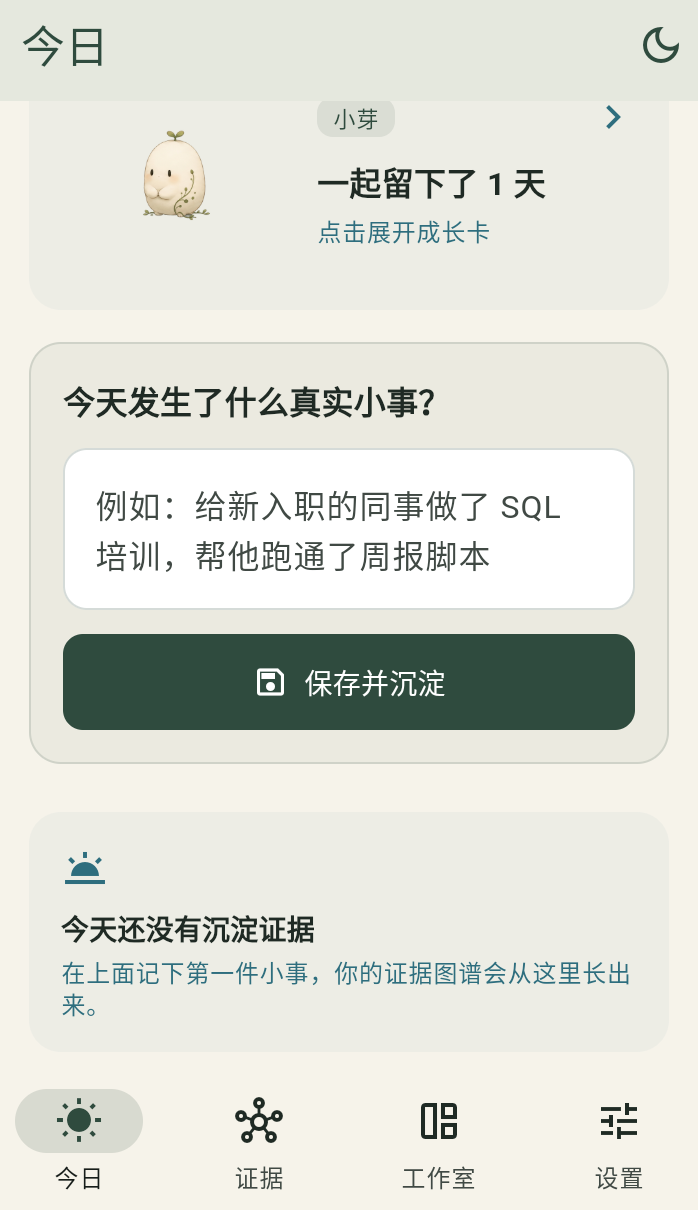
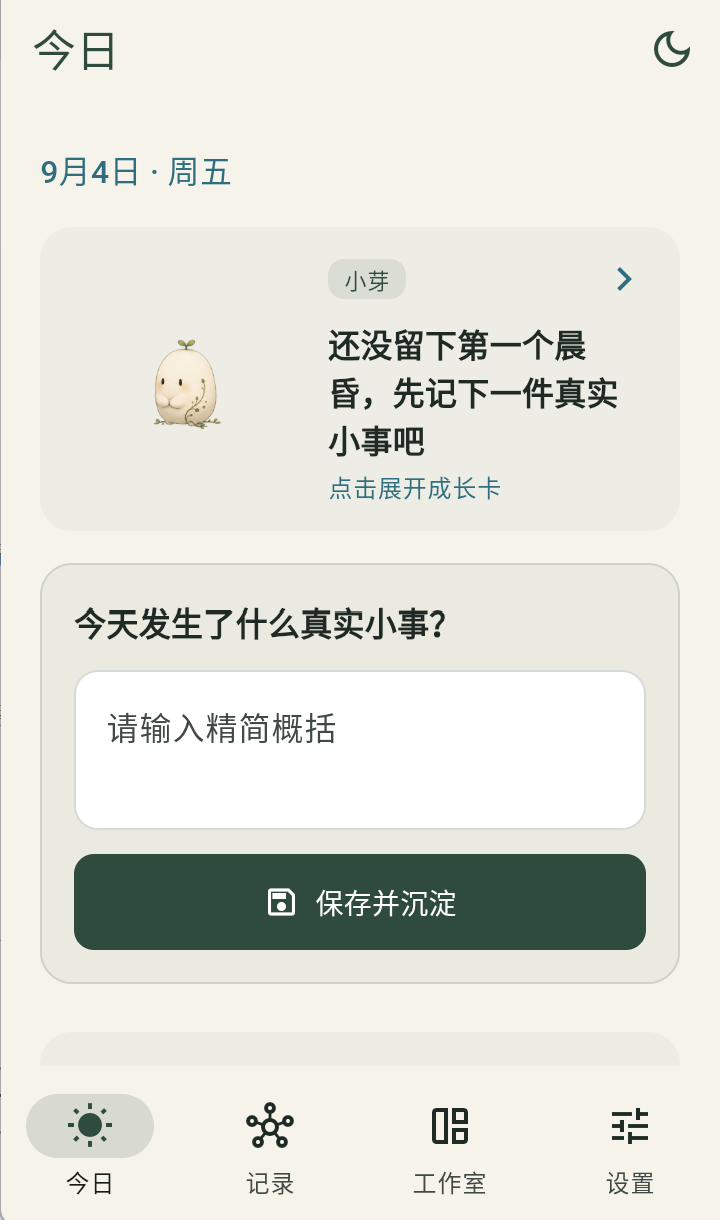
feat: replace hero screenshots with v1.2.2 captures

diff --git a/_templates/index.html b/_templates/index.html
@@ -19,16 +19,16 @@
   <!-- ③ 手机主视觉 -->
   <section class="lh-screens" aria-label="留痕应用界面截图" data-i18n-aria="common.home.screensAria">
     <figure class="lh-phone">
-      <img src="{{ base }}static/screens/journal.png" alt="今日记录页截图" width="698" height="1210" loading="lazy">
+      <img src="{{ base }}static/screens/journal.png" alt="今日页截图" width="720" height="1220" fetchpriority="high">
     </figure>
     <figure class="lh-phone">
-      <img src="{{ base }}static/screens/map.png" alt="证据图谱页截图" width="698" height="1212" loading="lazy">
+      <img src="{{ base }}static/screens/map.png" alt="记录页截图" width="718" height="1224" loading="lazy">
     </figure>
     <figure class="lh-phone">
-      <img src="{{ base }}static/screens/studio.png" alt="工作室页截图" width="706" height="1202" loading="lazy">
+      <img src="{{ base }}static/screens/studio.png" alt="工作室页截图" width="718" height="1228" loading="lazy">
     </figure>
     <figure class="lh-phone">
-      <img src="{{ base }}static/screens/settings.png" alt="设置页截图" width="692" height="1214" loading="lazy">
+      <img src="{{ base }}static/screens/settings.png" alt="设置页截图" width="714" height="1230" loading="lazy">
     </figure>
   </section>
 

diff --git a/doc/assets-checklist.md b/doc/assets-checklist.md
@@ -7,10 +7,10 @@
 |---|---|---|---|---|
 | 1 | 水滴 emblem Logo | SVG | ✅ 已定稿接入（2026-09-01） | 源图 `doc/logo-source/`，矢量 `_static/liuhen-logo.svg` |
 | 2 | Favicon 全套 | 16/32/180/192/512/ico | ⚪ 已生成（Logo 定稿后重出） | — |
-| 3 | 截图·今日记录 | 真机 PNG | ✅ 已接入（2026-09-01） | `_static/screens/journal.png` |
-| 4 | 截图·证据图谱 | 真机 PNG | ✅ 已接入（2026-09-01） | `_static/screens/map.png` |
-| 5 | 截图·工作室 | 真机 PNG | ✅ 已接入（2026-09-01） | `_static/screens/studio.png` |
-| 6 | 截图·设置 | 真机 PNG | ✅ 已接入（2026-09-01） | `_static/screens/settings.png`（替代原「每日一问」槽位） |
+| 3 | 截图·今日 | 真机 PNG | ✅ 已换新（2026-09-04，v1.2.2） | `_static/screens/journal.png` ← `D:\胡衍科\照片\留痕\首页.png` |
+| 4 | 截图·记录 | 真机 PNG | ✅ 已换新（2026-09-04，v1.2.2） | `_static/screens/map.png` ← `记录.png`（底栏已从「证据」改为「记录」） |
+| 5 | 截图·工作室 | 真机 PNG | ✅ 已换新（2026-09-04，v1.2.2） | `_static/screens/studio.png` ← `工作室.png` |
+| 6 | 截图·设置 | 真机 PNG | ✅ 已换新（2026-09-04，v1.2.2） | `_static/screens/settings.png` ← `设置.png`（关于页显示 v1.2.2 · 留痕） |
 | 7 | 深色版截图 ×4 | app 深色主题 | 🟡 可选 | 缺省亮色通吃 |
 | 8 | OG 分享图 | 1200×630 PNG | 🟡 可选（可代合成） | 文章 OG 已由构建管线自动生成 |
 | 9 | 特性图标 ×6 | Lucide 内联 | ⚪ 已接入 | lock / message-circle-question / git-fork / file-text / key-round / feather |
